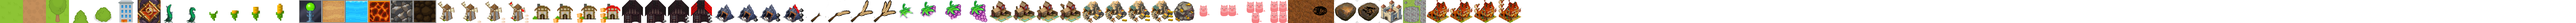
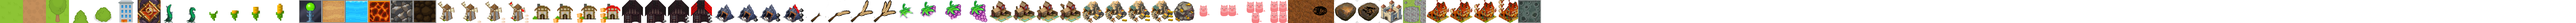
10 artefacts aléatoires apparaissent toutes les semaines

Changed region(s): [[0.5625, 0.0, 0.625, 1.0]]

diff --git a/assets/js/artefact.js b/assets/js/artefact.js
@@ -171,7 +171,7 @@ allArtefacts['epee_lumiere'] = {
 	'xp'	 		 : 0,
 	'exploration'	 : 0,
 	'supply'		 : '',
-	'duree'			 : {'heure': 1},
+	'duree'			 : {'heure': 2, 'jour': 0},
 	'inventaire'	 : 1,
 	'description_fr' : "Donne un bonus\n offensif important\n pour une durée\n très limitée",
 	'description_en' : "EN Donne un bonus\n offensif important\n pour une durée\n très limitée",
@@ -184,7 +184,7 @@ allArtefacts['bouclier_lumiere'] = {
 	'xp'	 		 : 0,
 	'exploration'	 : 0,
 	'supply'		 : '',
-	'duree'			 : {'heure': 1},
+	'duree'			 : {'heure': 2, 'jour': 0},
 	'inventaire'	 : 1,
 	'description_fr' : "Donne un bonus\n défensif important\n pour une durée\n très limitée",
 	'description_en' : "EN Donne un bonus\n défensif important\n pour une durée\n très limitée",
@@ -215,6 +215,50 @@ allArtefacts['botte_sable'] = {
 	'description_fr' : "Bottes pour marcher dans le sable",
 	'description_en' : "EN Bottes pour marcher dans le sable"
 }
+allArtefacts['bois'] = {
+	'name'		 	 : 'bois',
+	'attaque'		 : 0,
+	'defense'		 : 0,
+	'agilite'		 : 0,
+	'xp'	 		 : 0,
+	'exploration'	 : 0,
+	'supply'		 : {'bois': 5},
+	'duree'			 : '',
+	'inventaire'	 : 0
+}
+allArtefacts['culture_ble'] = {
+	'name'		 	 : 'culture_ble',
+	'attaque'		 : 0,
+	'defense'		 : 0,
+	'agilite'		 : 0,
+	'xp'	 		 : 0,
+	'exploration'	 : 0,
+	'supply'		 : {'ble': 5},
+	'duree'			 : '',
+	'inventaire'	 : 0
+}
+allArtefacts['culture_raisin'] = {
+	'name'		 	 : 'culture_raisin',
+	'attaque'		 : 0,
+	'defense'		 : 0,
+	'agilite'		 : 0,
+	'xp'	 		 : 0,
+	'exploration'	 : 0,
+	'supply'		 : {'vigne': 5},
+	'duree'			 : '',
+	'inventaire'	 : 0
+}
+allArtefacts['viande'] = {
+	'name'		 	 : 'viande',
+	'attaque'		 : 0,
+	'defense'		 : 0,
+	'agilite'		 : 0,
+	'xp'	 		 : 0,
+	'exploration'	 : 0,
+	'supply'		 : {'viande': 5},
+	'duree'			 : '',
+	'inventaire'	 : 0
+}
 
 function Artefact(map, x, y, row, col, attaque, defense, agilite, xp, exploration, supply, duree, inventaire, image1) {
 	this.map = map;
@@ -237,6 +281,7 @@ function Artefact(map, x, y, row, col, attaque, defense, agilite, xp, exploratio
 }
 
 function generateArtefact(map, x, y, row, col, name){
+	
 	var nameArtefact = 'artefacts'+row+'-'+col;
 	this.nameArtefact = new Artefact(map, x, y, row, col, allArtefacts[name].attaque, 
 														allArtefacts[name].defense, 
@@ -261,13 +306,68 @@ Hero.prototype.bombe = function () {	// utiliser la bombe
 	
 	var rowX = this.map.getRow(this.x);
 	var colY = this.map.getCol(this.y);
-	abs1[colY*map.rows+rowX+1] = 0;	//faire une tuile destruction
-	// abs2[colY*map.rows+rowX+1] = 0;
-	abs1[colY*map.rows+rowX-1] = 0;
-	// abs2[colY*map.rows+rowX-1] = 0;
-	abs1[colY*map.rows+rowX+map.rows] = 0;
-	// abs2[colY*map.rows+rowX+map.rows] = 0;
-	abs1[colY*map.rows+rowX-map.rows] = 0;
-	// abs2[colY*map.rows+rowX-map.rows] = 0;
+	abs1[colY*map.rows+rowX+1] = 67;	//tuile lunaire
+	abs1[colY*map.rows+rowX-1] = 67;	//tuile lunaire
+	abs1[colY*map.rows+rowX+map.rows] = 67;	//tuile lunaire
+	abs1[colY*map.rows+rowX-map.rows] = 67;	//tuile lunaire
 	//retirer 50 points de vie à tous les monstres et batiments qui se trouvent sur ces cases
+	if(builds[rowX+'-'+(colY+1)]){
+		builds[rowX+'-'+(colY+1)].life-=50;
+		if(builds[rowX+'-'+(colY+1)].life <= 0){
+			delete builds[rowX+'-'+(colY+1)];
+			abs2[colY*map.rows+rowX+map.rows] = 0;
+		}
+	}
+	if(builds[rowX+'-'+(colY-1)]){
+		builds[rowX+'-'+(colY-1)].life-=50;
+		if(builds[rowX+'-'+(colY-1)].life <= 0){
+			delete builds[rowX+'-'+(colY-1)];
+			abs2[colY*map.rows+rowX-map.rows] = 0;
+		}
+	}
+	if(builds[(rowX+1)+'-'+colY]){
+		builds[(rowX+1)+'-'+colY].life-=50;
+		if(builds[(rowX+1)+'-'+colY].life <= 0){
+			delete builds[(rowX+1)+'-'+colY];
+			abs2[colY*map.rows+rowX+1] = 0;
+		}
+	}
+	if(builds[(rowX-1)+'-'+colY]){
+		builds[(rowX-1)+'-'+colY].life-=50;
+		if(builds[(rowX-1)+'-'+colY].life <= 0){
+			delete builds[(rowX-1)+'-'+colY];
+			abs2[colY*map.rows+rowX-1] = 0;
+		}
+	}
+	
+	if(monsters[rowX+'-'+(colY+1)]){
+		monsters[rowX+'-'+(colY+1)].life-=50;
+		if(monsters[rowX+'-'+(colY+1)].life <= 0){
+			delete monsters[rowX+'-'+(colY+1)];
+		}
+	}
+	if(monsters[rowX+'-'+(colY-1)]){
+		monsters[rowX+'-'+(colY-1)].life-=50;
+		if(monsters[rowX+'-'+(colY-1)].life <= 0){
+			delete monsters[rowX+'-'+(colY-1)];
+		}
+	}
+	if(monsters[(rowX+1)+'-'+colY]){
+		monsters[(rowX+1)+'-'+colY].life-=50;
+		if(monsters[(rowX+1)+'-'+colY].life <= 0){
+			delete monsters[(rowX+1)+'-'+colY];
+		}
+	}
+	if(monsters[(rowX-1)+'-'+colY]){
+		monsters[(rowX-1)+'-'+colY].life-=50;
+		if(monsters[(rowX-1)+'-'+colY].life <= 0){
+			delete monsters[(rowX-1)+'-'+colY];
+		}
+	}
+}
+Hero.prototype.artEnCours = function (artefact) {	// utiliser les artefacts du répertoire
+	Game.hero.attaque+=		 artefact.attaque;
+	Game.hero.defense+=		 artefact.defense;
+	Game.hero.agilite+=		 artefact.agilite;
+	Game.hero.exploration+=  artefact.exploration;
 }

diff --git a/assets/js/logic-grid.js b/assets/js/logic-grid.js
@@ -154,12 +154,12 @@ Game.init = function () {
 	
 	generateArtefact(map, 210, 160, 3, 2, 'lunette_bleu');
 	generateArtefact(map, 210, 95, 3, 1, 'lunette_bleu');
-	generateArtefact(map, 95, 160, 1, 2, 'bombe');
+	generateArtefact(map, 95, 160, 1, 2, 'culture_raisin');
 	generateArtefact(map, 160, 95, 2, 1, 'bombe');
-	generateArtefact(map, 160, 192, 2, 3, 'bombe');
+	generateArtefact(map, 160, 192, 2, 3, 'bois');
 	generateArtefact(map, 150, 270, 2, 4, 'bombe');
 	generateArtefact(map, 150, 350, 2, 5, 'epee_lumiere');
-	generateArtefact(map, 150, 400, 2, 6, 'bouclier_lumiere');
+	generateArtefact(map, 150, 400, 2, 6, 'viande');
 
 	generateMonstre(map, 64, 64, 1, 1, 'troll', 0, 0, 0);
 	generateMonstre(map, 384, 128, 6, 2, 'brigand', 2, -1, 0);
@@ -282,9 +282,15 @@ Game.init = function () {
 			//click sur le bouton ok, on utilise l'artefact
 			if( xClick > rect.width/4+170 && xClick < 32 + rect.width/4+170 &&  yClick > rect.height/4+20+100 &&  yClick <  rect.height/4+20+100+32){
 				var index = Game.hero.artefact.indexOf(artefactSelectionne.name);
-				if(artefactSelectionne.duree != '')
-					Game.hero.artefactEnCours[artefactSelectionne.name+'-'+day+'-'+hour] = { 'artefact' : artefactSelectionne, 'heure' : hour, 'jour' : day};
-				else{
+				if(artefactSelectionne.duree != ''){
+					Game.hero.artefactEnCours[artefactSelectionne.name+'-'+day+'-'+hour] = 
+						{
+							'artefact' : artefactSelectionne,
+							'heure' : hour + artefactSelectionne.duree.heure,
+							'jour' : day + artefactSelectionne.duree.jour
+						};
+					Game.hero.artEnCours(artefactSelectionne);
+				}else{
 					var nameArtefact = artefactSelectionne.name;
 					Game.hero[nameArtefact]();
 				}

diff --git a/assets/js/time.js b/assets/js/time.js
@@ -66,8 +66,32 @@ function Time() {
 
 			}
 			
-			//remplir tous les trous toutes les semaines
+			//remplir tous les trous toutes les semaines et apparition d'artefacts
 			if(semaine == 7){
+				
+				
+				for(var i = 0; i < 10; i++){
+					var xRowMonster	 = Math.floor((Math.random() * Game.hero.map.rows) + 1);
+					var yColMonster	 = Math.floor((Math.random() * Game.hero.map.cols) + 1);
+
+					var xMonster	 = xRowMonster * Game.hero.map.tsize;
+					var yMonster	 = yColMonster * Game.hero.map.tsize;
+					var dirY 		 = 0;
+					var dirX 		 = 0;
+					
+					if(abs2[yColMonster*Game.hero.map.rows+xRowMonster] == 0){
+						
+						var keys = Object.keys(allArtefacts);
+						keys = keys[Math.floor(keys.length * Math.random())];
+						if(allArtefacts[keys] != null)
+							generateArtefact(map, xMonster, yMonster, xRowMonster, yColMonster, allArtefacts[keys].name);
+						
+					}
+
+				}
+				
+				
+				
 				var i, n = abs1.length;
 				for (i = 0; i < n; ++i) {
 					if(abs1[i] == 2){
@@ -94,6 +118,10 @@ function Time() {
 			
         }
 
+		// if(Game.hero){
+			// console.log(Game.hero.artefactEnCours.keys(Game.hero.artefactEnCours).length);
+			 // if(Game.hero.artefactEnCours
+		// }
 		
 		Object.keys(builds).forEach(function(key) {
 			if(builds[key].hour == hour && builds[key].day+1 == day && builds[key].batiment.length>1 && minute == 0){

diff --git a/assets/js/hero.js b/assets/js/hero.js
@@ -189,6 +189,21 @@ Hero.prototype.move = function (delta, dirx, diry) {
     this._loselifeTile(dirx, diry);
 	
 	
+	if(Object.keys(this.artefactEnCours).length){	//SI ARTEFACT EN COURS DOIT SE TERMINER
+		Object.keys(this.artefactEnCours).forEach(function(key) {
+			if(Game.hero.artefactEnCours[key].heure == hour && Game.hero.artefactEnCours[key].jour == day){
+				
+				Game.hero.attaque-=		 Game.hero.artefactEnCours[key].artefact.attaque;
+				Game.hero.defense-=		 Game.hero.artefactEnCours[key].artefact.defense;
+				Game.hero.agilite-=		 Game.hero.artefactEnCours[key].artefact.agilite;
+				Game.hero.exploration-=  Game.hero.artefactEnCours[key].artefact.exploration;
+				
+				delete(Game.hero.artefactEnCours[key]);
+			}
+		})
+	}
+	
+	
     // clamp values
     var maxX = this.map.cols * this.map.tsize;
     var maxY = this.map.rows * this.map.tsize;
@@ -256,6 +271,10 @@ Hero.prototype.move = function (delta, dirx, diry) {
 			this.exploration+= artefacts[rowX+'-'+colY].exploration;
 			this.agilite+= artefacts[rowX+'-'+colY].agilite;
 			this.xp+= artefacts[rowX+'-'+colY].xp;
+			
+			for (var key in artefacts[rowX+'-'+colY].supply) {
+				Game.hero.supply[key]+= artefacts[rowX+'-'+colY].supply[key];
+			}
 		}
 		
 		anim = new animation(map, artefacts[rowX+'-'+colY].x, artefacts[rowX+'-'+colY].y, artefacts[rowX+'-'+colY].image);

diff --git a/assets/js/monstre.js b/assets/js/monstre.js
@@ -287,6 +287,7 @@ Monstre.prototype.move = function (delta, hx, hy) {
 		else if(this.directionY==1 && monsters[this.row+'-'+hautY] && this.map.getCol(this.y) < this.map.getCol(monsters[this.row+'-'+hautY].y)){
 			this.directionY=-1;	
 		}
+		
 
 
 		if(this.directionX != 0 && monsters[this.row+'-'+hautY] && monsters[this.row+'-'+hautY].directionY == -1){
@@ -313,7 +314,6 @@ Monstre.prototype.move = function (delta, hx, hy) {
         // return;
 	}
 // rencontre héro
-	// console.log(this.directionX, this.directionY, this.vitesse);
 	if(this.directionX == 0 && this.directionY == 0 && this.vitesse > 0){
 		
 		//monstre attaque le héros

diff --git a/assets/js/images.js b/assets/js/images.js
@@ -94,6 +94,7 @@ Game.defineImages = function(){
 		Loader.loadImage('culture_ble', 'assets/menu/ble.png'),
 		Loader.loadImage('brique', 'assets/menu/brique.png'),
 		Loader.loadImage('cochon', 'assets/menu/cochon.png'),
+		Loader.loadImage('viande', 'assets/menu/jambon.png'),
 		Loader.loadImage('jambon', 'assets/menu/jambon.png'),
 		Loader.loadImage('boucherie', 'assets/menu/boucherie.png'),
 		Loader.loadImage('loupe', 'assets/menu/detail.png'),
